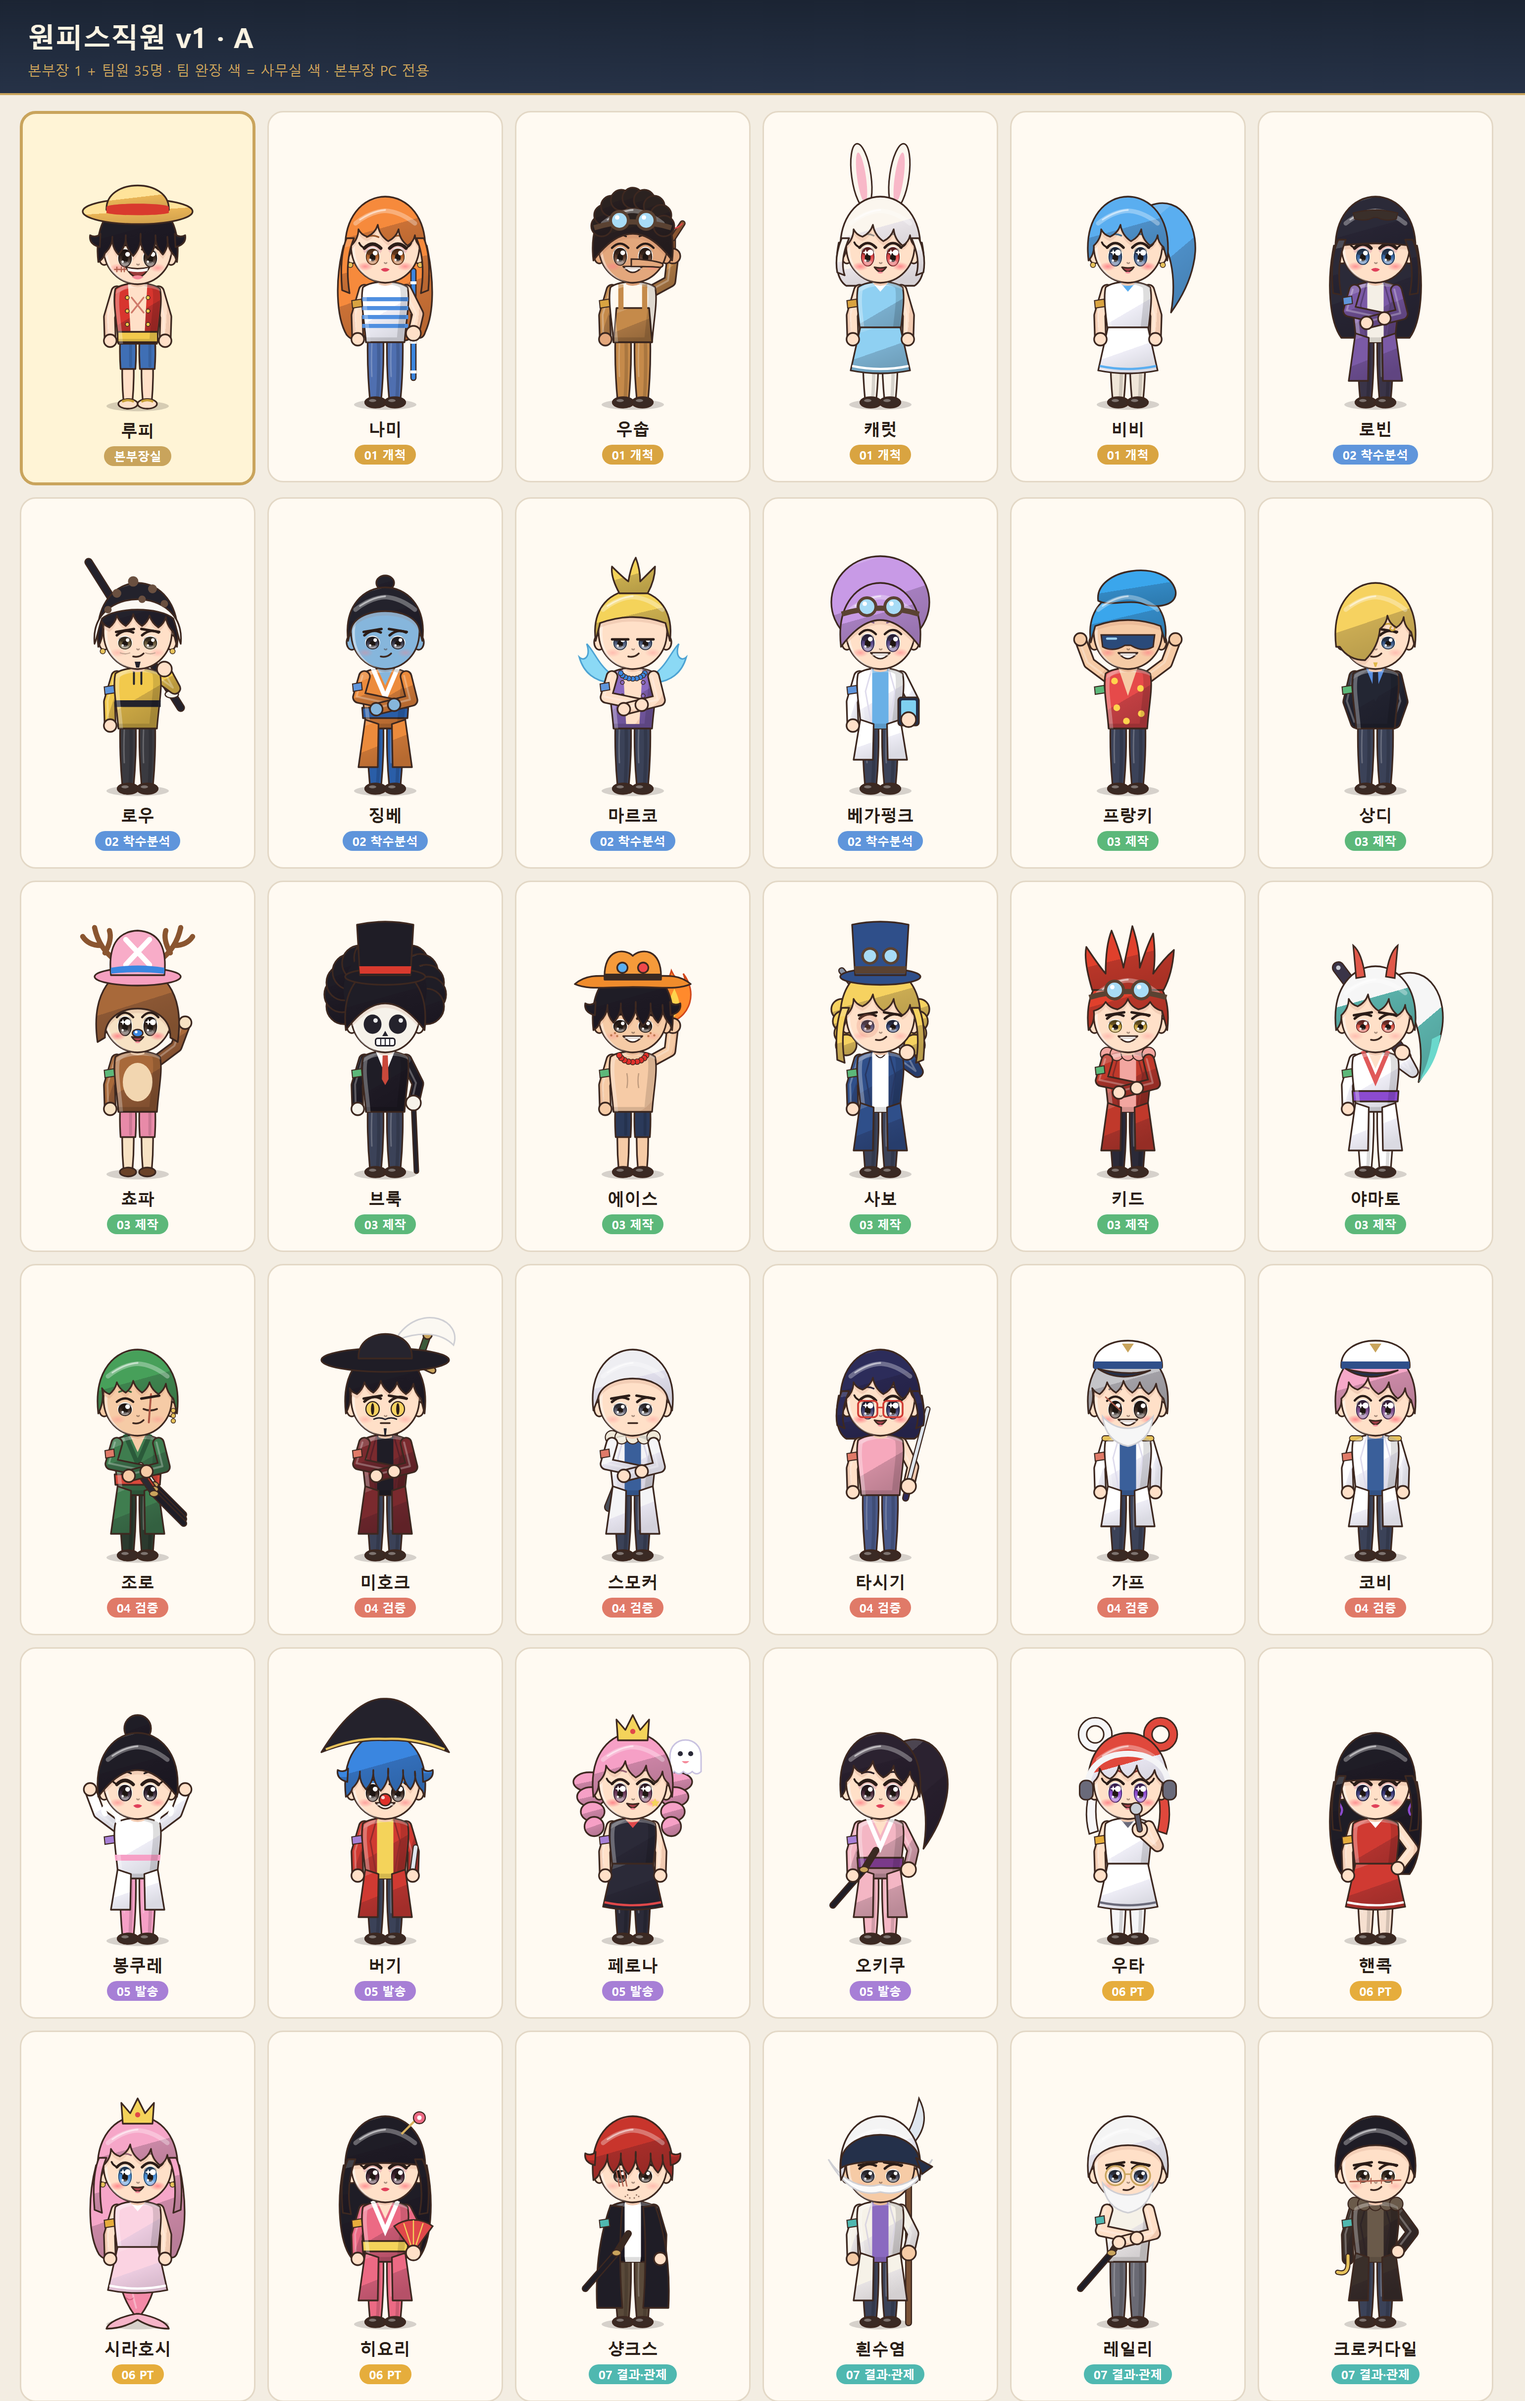
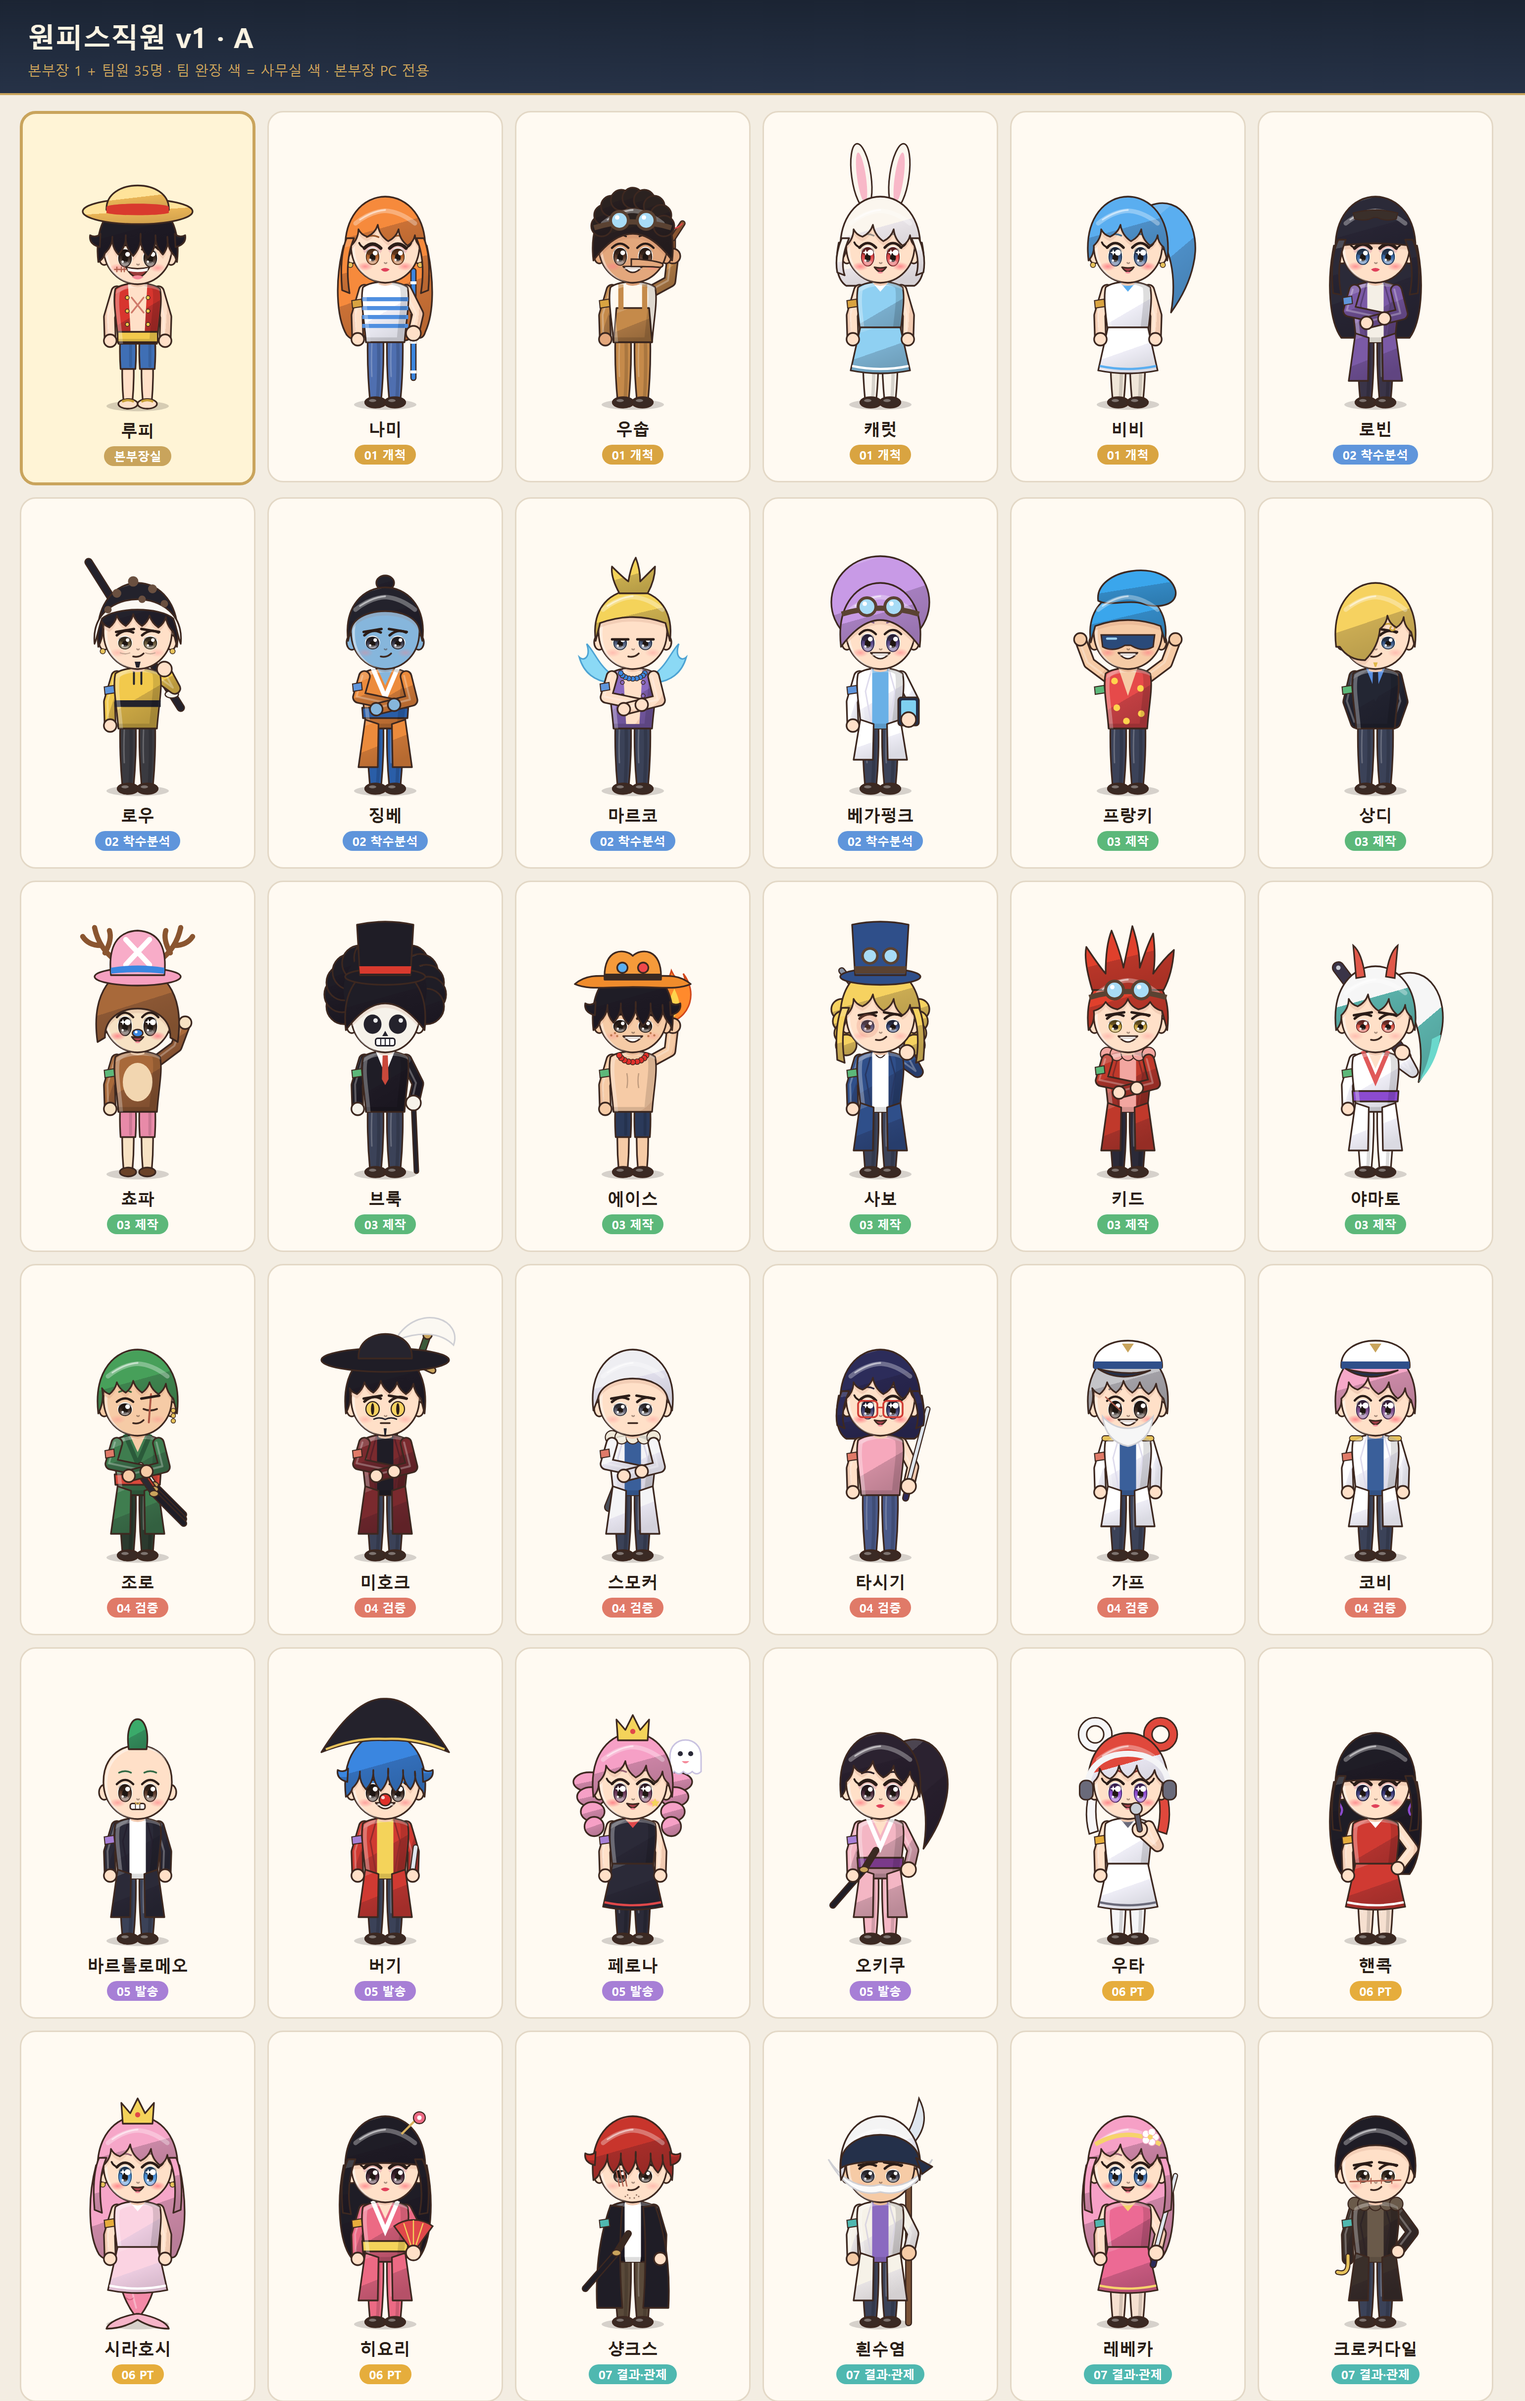
원피스직원 v1: 봉쿠레 · 레일리 빼고 바르톨로메오(05 발송) · 레베카(07 결과·관제) 되돌림 · 오피스 그림 다시 생성

Changed region(s): [[0.0623, 0.7164, 0.1247, 0.841], [0.6857, 0.8721, 0.7792, 0.9656]]

diff --git a/jugansa/ai-office/ai-jugansa/design/skins/원피스직원_v1/svg_chars.py b/jugansa/ai-office/ai-jugansa/design/skins/원피스직원_v1/svg_chars.py
@@ -54,7 +54,7 @@ ROSTER = {
         C("코비", "side", "#f6a8c8", "marine", "#ffffff", "#3a5f9a", hat="marine", eyec="#7a4a8a", vibe="cute", pose="wave"),
     ],
     "mail": [
-        C("봉쿠레", "bun", "#1f1d26", "swan", "#ffffff", "#f6a0c6", eyes="makeup", mouth="lips", vibe="fun", pose="cheer", eyec="#3a2a3a", legs="#f6a0c6"),
+        C("바르톨로메오", "mohawk", "#3aaa6a", "coat", "#2b2a38", "#ffffff", mouth="teeth", vibe="fun", pose="fist", ex=["nose_ring"]),   # 봉쿠레 대신 (본부장 10-31)
         C("버기", "messy", "#3a86e0", "coat", "#d03a32", "#f4d35a", hat="captain", mouth="grin", vibe="fun", pose="fist", props=["knife"], ex=["red_nose", "clown_paint"], eyec="#3a2a22"),
         C("페로나", "drills", "#f6a0c6", "dress", "#2b2a38", "#e0484a", hat="crown", eyec="#6a3a5a", girl=True, vibe="cute", pose="wave", props=["ghost"], ex=["star_cheek"], legs="#2b2a38"),
         C("오키쿠", "pony", "#2b2230", "kimono", "#f4b6c4", "#ffffff", "#7a3a8a", eyec="#4a2a3a", girl=True, vibe="glam", mouth="lips", pose="hold", props=["sword_hip"], legs="#f4b6c4"),   # 바르톨로메오 대신 (본부장 10-31)
@@ -68,7 +68,7 @@ ROSTER = {
     "retro": [
         C("샹크스", "messy", "#c8352c", "cloak", "#1f1d26", "#ffffff", vibe="cool", pose="onearm", props=["sword_hip"], ex=["scar_shanks", "stubble", "no_left_arm"], eyec="#3a2a22", legs="#5a4a3a"),
         C("흰수염", "short", "#f4f4f4", "coat", "#f6f2e8", "#8a6ac0", skin=SK2, hat="bandana", mouth="flat", vibe="cool", pose="hold", props=["bisento"], ex=["mustache_crescent"], eyec="#4a4a5a"),
-        C("레일리", "slick", "#f4f4f4", "tshirt", "#f6f2e8", "#f6f2e8", vibe="cool", pose="cross", props=["sword_hip"], ex=["glasses_round", "beard_white"], eyec="#4a5a7a", legs="#6a6a74"),
+        C("레베카", "long", "#f6a0c6", "dress", "#ec6a94", "#f6d36b", eyec="#3a6aa8", girl=True, vibe="cute", pose="hold", props=["katana_up"], ex=["headband_flower"], legs="#f6e0d0"),   # 레일리 대신 (본부장 10-31)
         C("크로커다일", "slick", "#1f1d26", "fur_coat", "#3a2f2a", "#6a5a4a", mouth="smirk", vibe="cool", pose="hip", ex=["scar_croc", "hook"], eyec="#4a3a2a"),
     ],
 }
